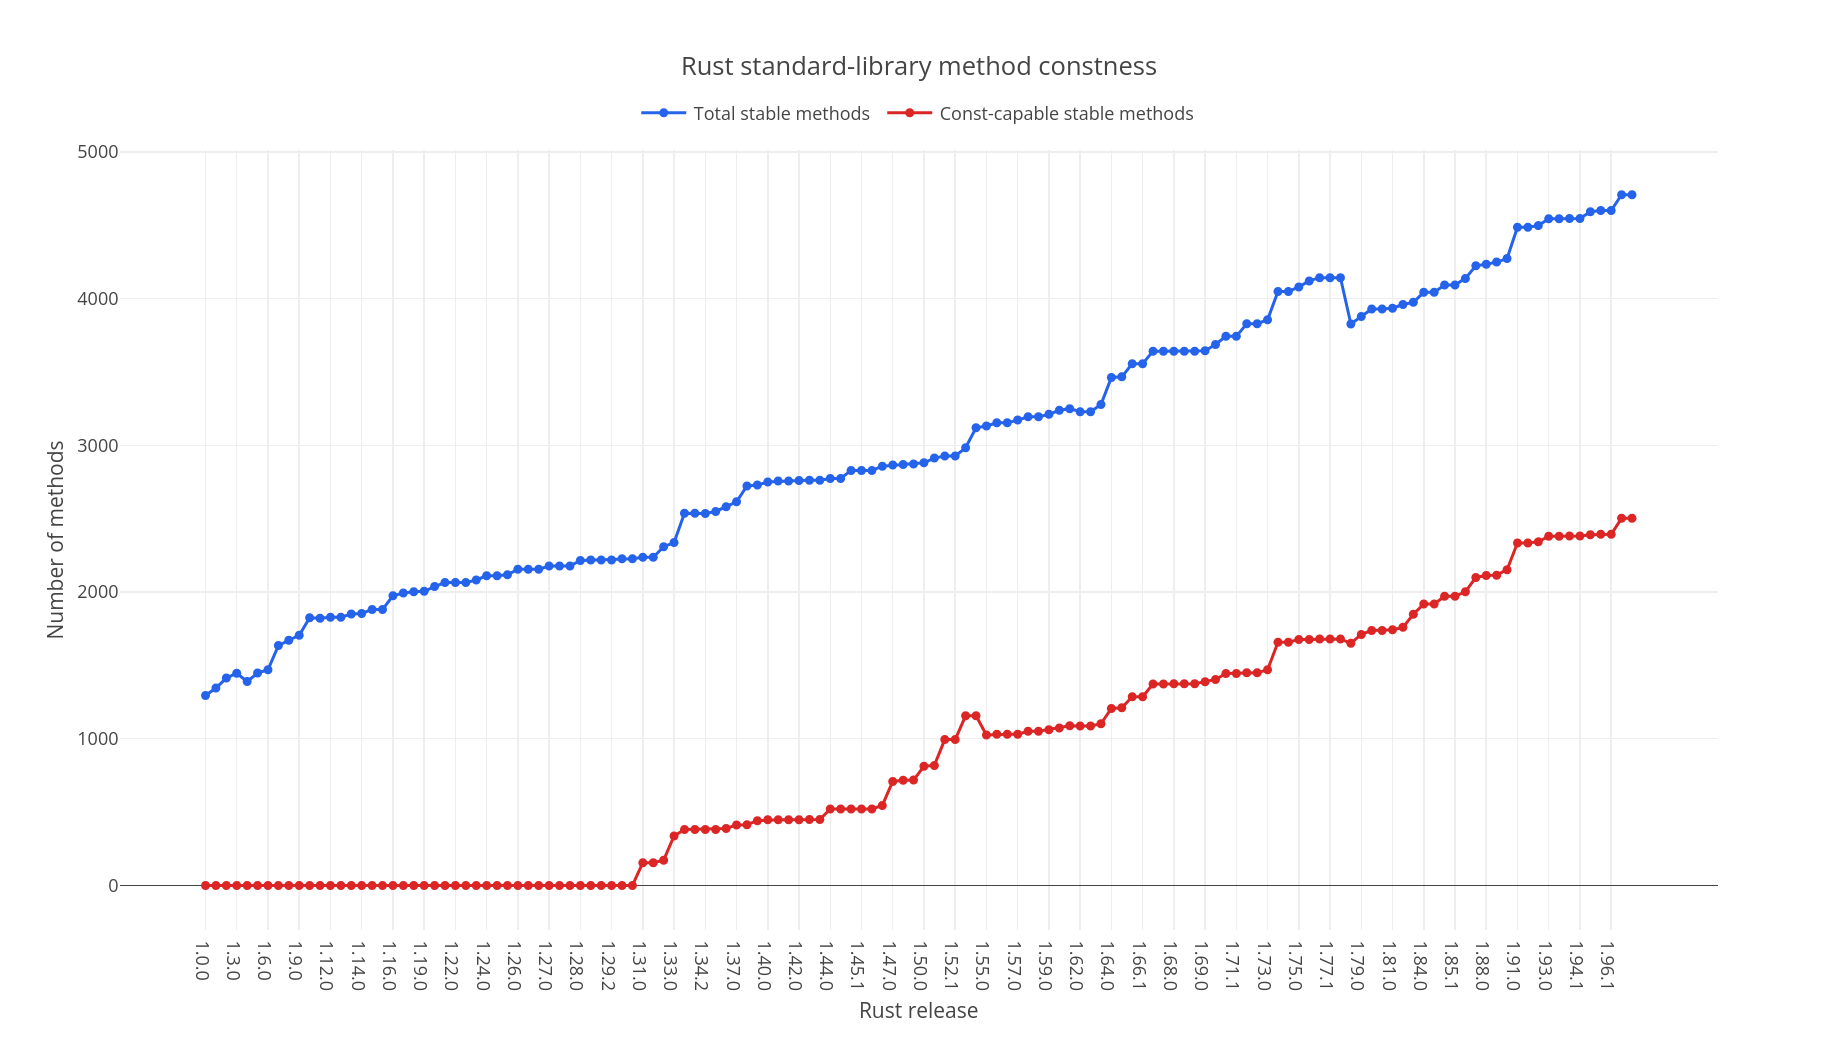
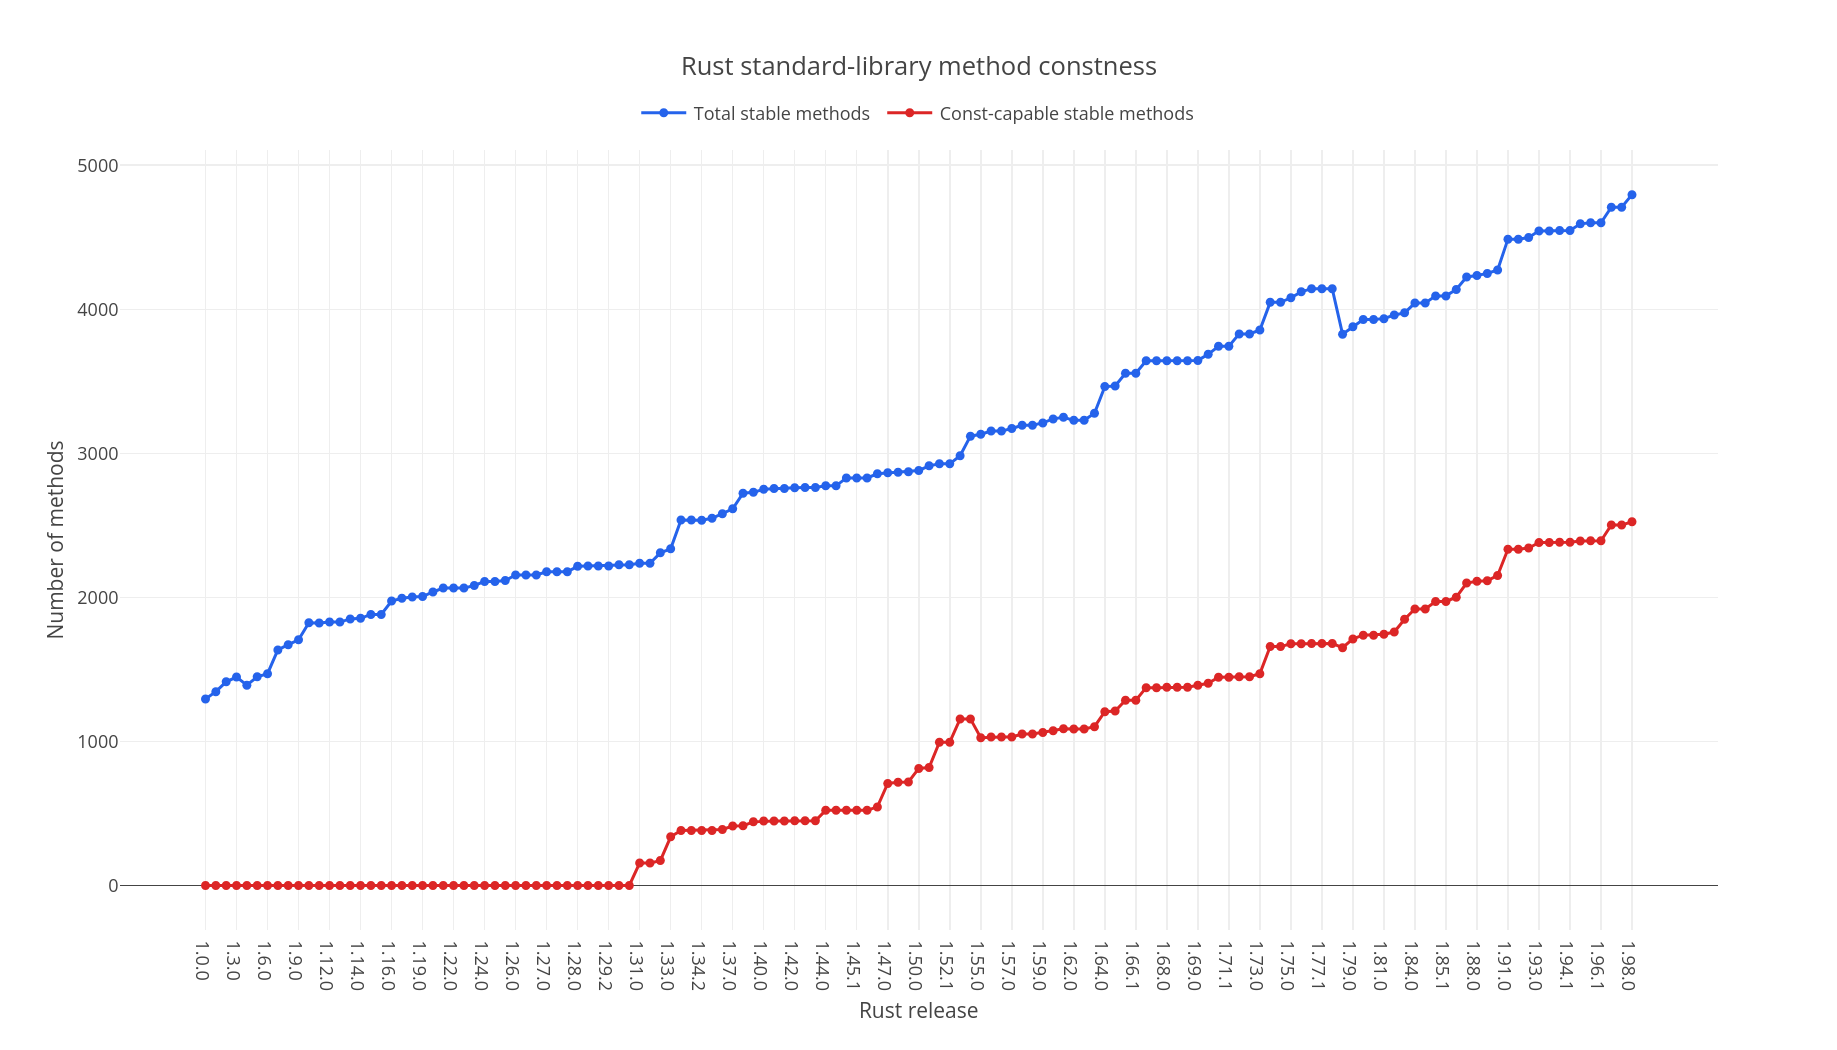
Add Rust 1.98.0

diff --git a/src/versions.rs b/src/versions.rs
@@ -25,7 +25,7 @@ const AVAILABLE_RELEASES: &[&str] = &[
     "1.77.2", "1.78.0", "1.79.0", "1.80.0", "1.80.1", "1.81.0", "1.82.0", "1.83.0", "1.84.0",
     "1.84.1", "1.85.0", "1.85.1", "1.86.0", "1.87.0", "1.88.0", "1.89.0", "1.90.0", "1.91.0",
     "1.91.1", "1.92.0", "1.93.0", "1.93.1", "1.94.0", "1.94.1", "1.95.0", "1.96.0", "1.96.1",
-    "1.97.0", "1.97.1",
+    "1.97.0", "1.97.1", "1.98.0",
 ];
 
 pub fn select(specification: &str) -> Result<Vec<String>> {
